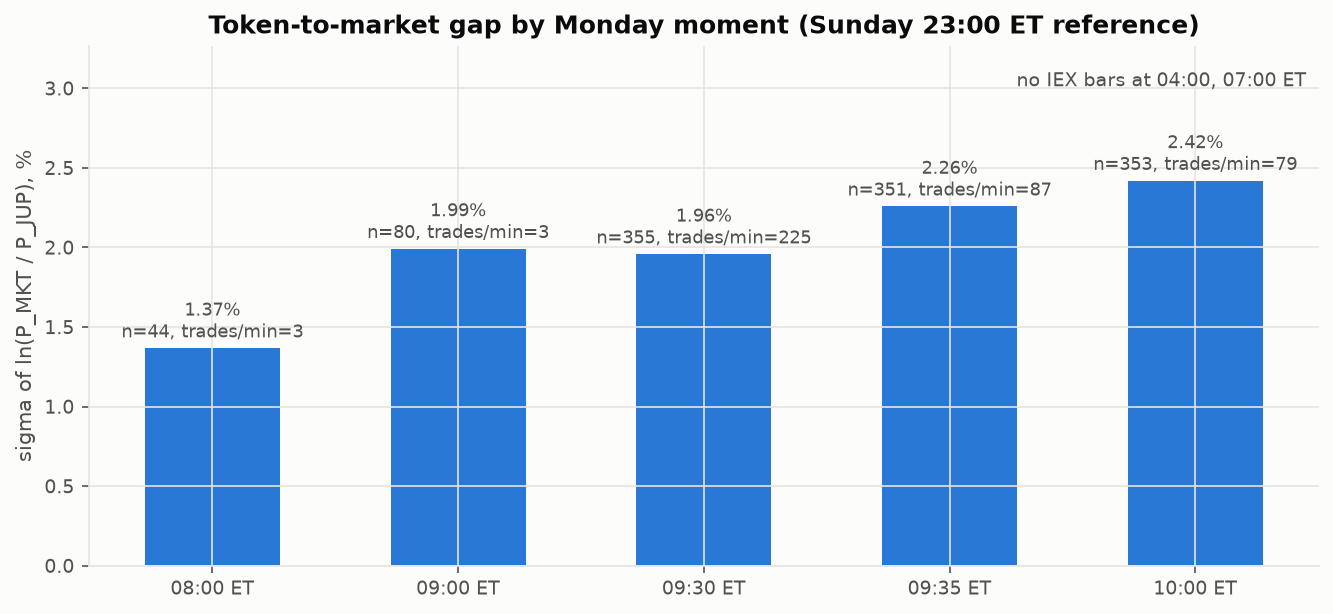
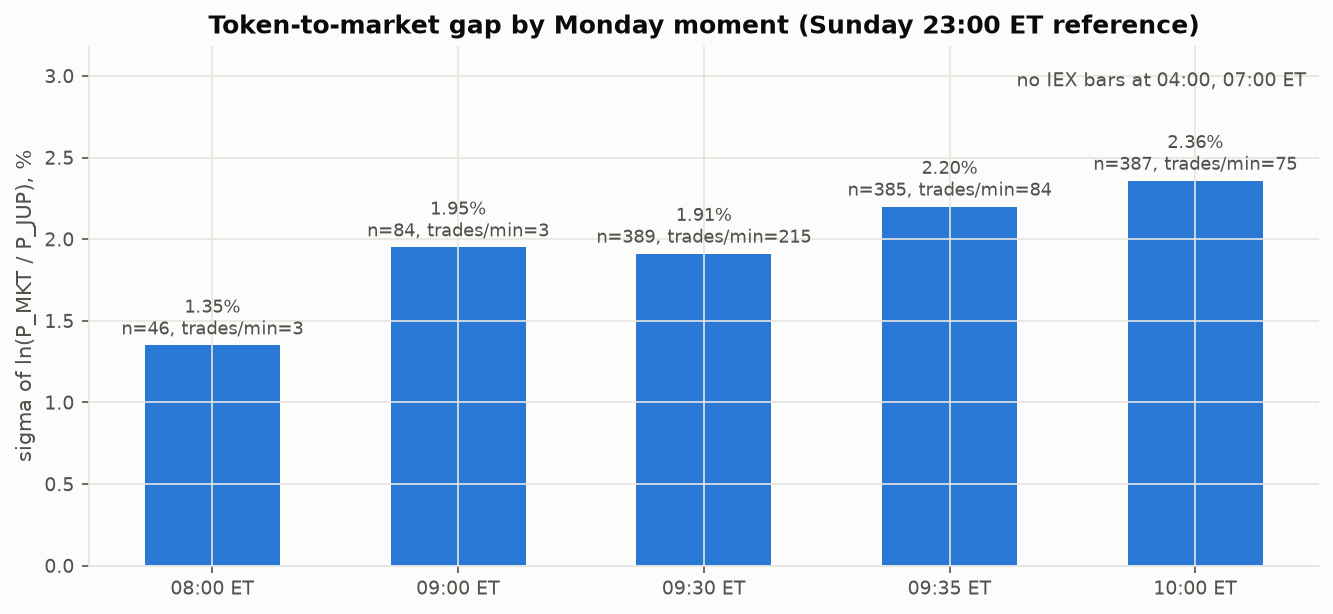
Docs: PROJECT-TOUR - the whole project in one map, today's engine highlighted; notebook re-executed

diff --git a/docs/PROJECT-TOUR.md b/docs/PROJECT-TOUR.md
@@ -1,0 +1,271 @@
+# Project Yagnum — the whole thing, explained
+
+A tour of everything that exists, how it works, and why it is built that
+way. Written 2026-08-31, the day the ERR engine went live. Each section
+links to the deep doc; this one is the map.
+
+**The problem in one sentence.** The US stock market is closed 48 hours
+every weekend, but tokenized copies of real shares (xStocks) trade on
+Jupiter, a Solana exchange, around the clock — so a price exists when the
+market does not, and Yagnum is a settlement framework that lets someone
+trade against that price *safely*, with a measured cash reserve absorbing
+the gap between the weekend price and Monday's real one.
+
+---
+
+## 1. The map
+
+Three pieces, one repository:
+
+```
+app/web    Next.js 16 frontend — the brokerage the user sees
+app/api    FastAPI backend — the only holder of every secret; talks to
+           Alpaca (real-ish brokerage, sandbox) and Jupiter (read + quote)
+notebooks  the research — measures the numbers the engine runs on
+```
+
+The browser never talks to Alpaca or Jupiter. It talks to our own origin;
+a proxy attaches the user's session token; FastAPI does the rest. One
+sentence of security model: every route acts on the signed-in user's own
+account, resolved server-side, never taken from a request body.
+
+Data lives in Neon Postgres (branch `development`). Decisions live in
+[DECISIONS.md](DECISIONS.md) — nineteen ADRs, each one a choice you made
+with its reasons.
+
+---
+
+## 2. The brokerage (Phases 1–4, done)
+
+What a customer can do today, and the machinery behind each piece:
+
+**Sign in and get a brokerage account.** Clerk handles identity; the first
+visit provisions a real account at Alpaca's Broker API sandbox (fake KYC,
+by design — ADR-004). A login and a brokerage account are different things
+with different lifecycles (ADR-013): deleting the Clerk user fires a
+webhook that liquidates and closes the Alpaca account properly
+(ADR-015) — sell everything, return the cash, retire the email, close.
+
+**Fund it.** $10,000 of sandbox cash arrives by *journal* from a firm
+account — instant and unlimited — because ACH transfers in the sandbox are
+capped at one per day and crawl (ADR-011, learned the hard way).
+
+**Trade it.** Market and limit orders, cancel, order history. `POST
+/orders` takes an `Idempotency-Key`: the key is recorded *before* the
+order goes out, so a retry after a timeout returns the original order
+instead of buying twice (ADR-014). As of today it also takes
+`extended_hours` for the 4–9:30 AM and 4–8 PM sessions.
+
+**See the truth about money.** Every dollar amount is a **string** on the
+wire and `Decimal`/`NUMERIC` in code and database, never a float — binary
+floats cannot hold decimal cents (ADR-010). This rule appears in every
+module and is the single most load-bearing convention in the project.
+
+**Know what you made.** The moment you sell, Alpaca forgets what the
+shares cost you. So we keep our own ledger: every fill is copied into
+`fills`, buys open `lots`, sells consume them oldest-first (FIFO), and
+`realized_pnl` stores the result — which feeds History, the dashboard, and
+the sell ticket's "estimated gain vs. what you paid" line.
+
+**Leave a trail.** Every state-changing request writes one `audit_log`
+row, and every response carries an `X-Request-ID` that joins a user's "it
+didn't work" to the exact row.
+
+---
+
+## 3. The measurement pipeline (Phase 5, running since Aug 28)
+
+The paper's reserve formula needs one number nobody publishes: how far
+weekend token prices land from Monday's real fill. So we measure it
+ourselves (ADR-016):
+
+- **The sampler** — a GitHub Actions cron, every 5 minutes, around the
+  clock — records each of the 20 xStocks' Jupiter price beside its real
+  share's last Alpaca trade, into `token_prices`. The share price freezes
+  at Friday's close all weekend *on purpose*: that staleness IS the gap
+  being measured.
+- **The backfill** pulled the past: 180 days of hourly token candles from
+  GeckoTerminal (57,861 rows) and 2 years of daily share bars plus Monday
+  premarket minutes from Alpaca (38,820 rows).
+- **The notebook** (`notebooks/gap-volatility.ipynb`) turns all of it into
+  the two numbers the engine runs on — see the next section.
+
+Deep dives: [SIZING-THE-RESERVE.md](SIZING-THE-RESERVE.md) (the statistics,
+from ELI5 up) and [JUPITER-FLOW.md](JUPITER-FLOW.md) (how a token trade
+works, mints, decimals, bid/ask).
+
+---
+
+## 4. The reserve science (ADR-018)
+
+The reserve is `qty × price × σ × z`. Two measured inputs:
+
+- **σ (per symbol)** — how much *this* share's weekend gaps typically move.
+  NVDA 2.7%, MCD 0.7%, MSTR 4.8%. Each symbol gets the larger of two
+  independent measurements (2 years of real market weekends; the token
+  record), the conservative choice while the token record is thin.
+- **z (one pooled number, 3.7759)** — how heavy the tails are. The paper
+  assumed a bell curve and took 2.326 from the normal table; the measured
+  gaps have excess kurtosis of 27 (a bell curve has 0), and back-testing
+  showed 2.326 gets breached ~5× more often than promised. The empirical
+  99th percentile, pooled across all symbols' worst Mondays, fixes it.
+
+These live in `app/api/research_params.json` with their measurement date,
+re-derived from the notebook after each recorded weekend — parameters are
+*outputs of research*, never constants typed into code.
+
+---
+
+## 5. ★ Today: the ERR engine and the weekend simulator (ADR-019)
+
+This is the heart of the paper, now running. Built and verified live
+2026-08-31. Walkthrough with screenshots of the math:
+[WEEKEND-SIMULATOR.md](WEEKEND-SIMULATOR.md).
+
+**The routing rule.** A new module, `sessions.py`, answers one question —
+*which of the five trading windows is it?* — premarket, regular,
+after-hours, overnight (Alpaca's 24/5, pending tonight's test), or the
+**weekend**: Friday 8 PM to Sunday 8 PM ET, the 48 hours no regulated
+venue serves. Every hour has exactly one execution path, and Jupiter is
+never the path while Alpaca is. (A finding along the way: Alpaca now
+covers 24/5, so the dead zone is 48 hours, not the 65 the paper assumed —
+a smaller problem, precisely bounded.)
+
+**The engine** (`weekend.py`). A weekend trade is a row in
+`weekend_trades` walking a state machine:
+
+```
+provisional ──► awaiting_settlement ──► settled
+                                   └──► breached
+```
+
+Opening a sell: Jupiter's *executable* quote for your exact size (the bid,
+not the last-swap price) becomes `p_open`; the reserve is journaled out of
+your account into the firm account; your notional is journaled *to* you —
+**you sold now, you are paid now**; that immediacy is the product.
+Settling: your real shares sell at the broker; the fill is `p_close`, the
+first regulated price; the proceeds repay the advance; and the escrow
+returns as `reserve + qty × (p_close − p_open)` — so you always end at the
+regulated price (ADR-017) and Yagnum always ends flat. If the gap eats
+more than the whole reserve, the trade is `breached` and the excess is
+debited: escrow is collateral, not a cap.
+
+Three technical choices worth understanding:
+
+1. **Every cash move is a real Alpaca journal with a tag** ("ERR escrow -
+   weekend trade 3"). The paper's Invariant 1 — escrow covers every open
+   trade — is therefore a *query at the broker*, not a promise in our code.
+2. **Every step appends a `weekend_trade_events` row** carrying the Alpaca
+   journal or order id that proves it. The trade row says where things
+   stand; the events say how they got there. This is the double-entry
+   discipline in its simplest honest form, and it makes retries safe: a
+   settlement that dies mid-way resumes by checking which events exist.
+3. **The engine has exactly two injectable seams** — the clock and the
+   settlement price — and the simulator is nothing but those two seams.
+   No throwaway code: the simulator IS the engine.
+
+**The simulator.** Jupiter trades 24/7, so on a Tuesday the weekend's data
+source is live; we only fake the calendar. A dev-only switch (the amber
+**Dev clock** pill; `POST /dev/clock`, 404 in production) forces the
+session to "weekend" and the whole app follows — token panel, market
+status, and the ticket, which becomes the weekend ticket showing the full
+reserve arithmetic before you confirm. Settlement in dev is both honest
+ways: **real** (a real order minutes later — today's run: sold 2 NVDA at
+Jupiter's bid $219.98, settled at a real $219.76 fill, escrow back $44.41
+of $44.86, the whole lifecycle in ten seconds) and **injected** (choose
+the gap: a +12% injected Monday breached a buy's $22.44 reserve and
+debited $3.97 beyond it — the crash test a real calendar would take months
+to run).
+
+37 new tests cover the session calendar, the reserve math, both settlement
+modes, the breach path, and the production guards; 178 pass in total.
+
+**Is the real flow live?** Yes — on a real weekend the same code runs with
+no toggle: the calendar alone activates the weekend ticket and the engine.
+One piece is still manual: settlement fires when you (or an API call)
+press settle, not yet by itself at Monday 8:00 AM. The scheduled
+settlement job is the next build item; until then, Monday-morning
+settlement is one click.
+
+---
+
+## 6. The first fully recorded weekend (Aug 28–31)
+
+The sampler just lived through its first complete weekend — 9,960
+observations, Friday 4 PM to Monday, no gaps. NVDAx, from our own tables:
+
+| Moment | Token (Jupiter) | Share (Alpaca) | What it means |
+| --- | --- | --- | --- |
+| Fri 3:56 PM | $217.94 | $217.98 | tracking tightly in-hours |
+| Sat noon | $218.65 | $217.55 (frozen) | weekend opinion forms: +0.5% |
+| Sun 11 PM | $217.72 | frozen | opinion cools to +0.1% |
+| Mon 4:05 AM | $219.06 | frozen | premarket news lands in the token first |
+| Mon 9:33 AM | $219.07 | **$219.21** | the market opens +0.77% above Friday |
+
+Read the story: the token wandered a half percent all weekend, then by
+4 AM Monday had already priced the +0.8% open — five and a half hours
+before the market confirmed it. A seller who locked Sunday 11 PM's price
+would have been trued up +0.68% at settlement; the move was a tenth of
+what the reserve is sized for. This is the engine's risk, watched live at
+5-minute resolution for the first time.
+
+**What we do with this data:** re-execute the notebook (running today) so
+weekend #1 joins the record; refresh `research_params.json` from its
+output; repeat after every weekend. Each weekend sharpens σ, z, and the
+settlement-moment answer — the premarket table now has real 5-minute
+observations instead of backfilled minute bars alone. (One instrument
+note: Alpaca's free IEX feed printed no premarket share trades this
+morning — the share column stayed frozen until 9:33 — so the token is
+currently our *only* premarket witness at 5-minute resolution.)
+
+---
+
+## 7. What is not built yet
+
+- **The scheduled settlement job** — settle every open weekend trade
+  automatically at Monday 8:00 AM ET premarket, rolling to the 9:30
+  auction. The engine's settle function is the job's body; the trigger is
+  the missing piece.
+- **The overnight verdict** — tonight's 8:05 PM sandbox test decides
+  whether Alpaca's 24/5 session works for us, or those hours join the
+  engine's window.
+- **Market holidays** — the calendar treats them as weekdays; orders would
+  queue at the broker instead of routing to the engine. Known limit,
+  recorded in ADR-019.
+- **Research questions 2–5** — record the token bid/ask spread every 5
+  minutes (the sampler extension), simulate the paper's cascade on 1,864
+  weekends, off-hours tracking, engine-ledger reconciliation.
+- **Azure deployment** — deliberately last (owner's call): ship when the
+  app is essentially done. The checklist is in
+  [PRODUCTION.md](PRODUCTION.md).
+
+---
+
+## 8. The reading map
+
+| Doc | What it teaches |
+| --- | --- |
+| [YAGNUM-EXPLAINED.md](YAGNUM-EXPLAINED.md) | The concept: the problem, the hedge, the formulas, the cascade |
+| [SIZING-THE-RESERVE.md](SIZING-THE-RESERVE.md) | The statistics: σ, z, the bell curve from the ground up, where the data lives |
+| [JUPITER-FLOW.md](JUPITER-FLOW.md) | The token side: mints, decimals, quotes vs prices, the on-chain record |
+| [WEEKEND-SIMULATOR.md](WEEKEND-SIMULATOR.md) | ★ Today's build: the engine's lifecycle with real numbers, and how to drive it |
+| [DECISIONS.md](DECISIONS.md) | Every choice, numbered, with reasons — ADR-001 through ADR-019 |
+| [ARCHITECTURE.md](ARCHITECTURE.md) | The structural reference: routes, tables, phases |
+| `docs/postman/` | Every API call, sendable by hand |
+
+---
+
+## 9. Say it back
+
+1. What is the only thing the weekend simulator fakes? *(The calendar.)*
+2. A customer weekend-sells and the price falls 1% by Monday. Walk the
+   cash: who pays what, when? *(They are advanced Saturday's price
+   immediately; Monday the real sale fills 1% lower; the 1% comes out of
+   their reserve at release. They end at Monday's price — same as ADR-017
+   promises — but they had the cash two days early.)*
+3. Why is Invariant 1 "a query, not a promise"? *(Escrow moves are real
+   tagged journals at the broker; summing them proves coverage without
+   trusting our own bookkeeping.)*
+4. Why does `research_params.json` carry a date? *(Because σ and z are
+   measurements that go stale; the date says how stale, and each recorded
+   weekend refreshes them.)*
